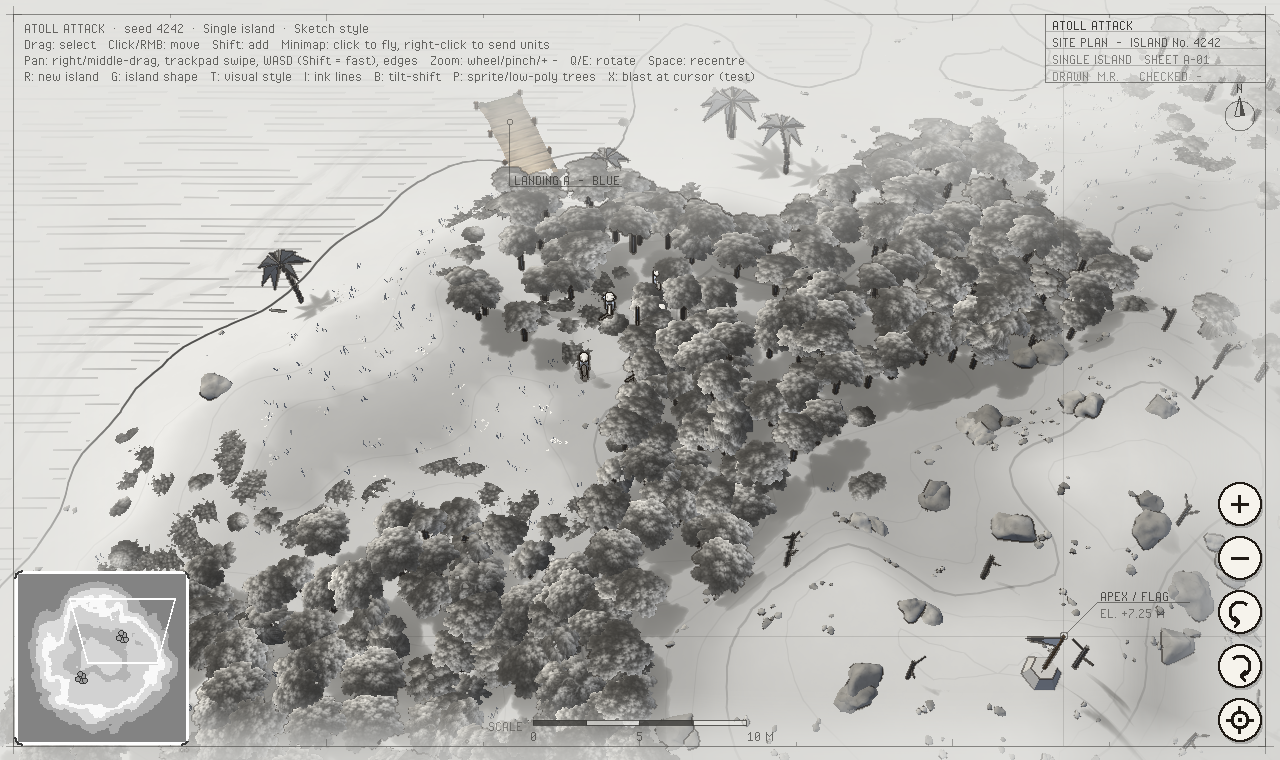
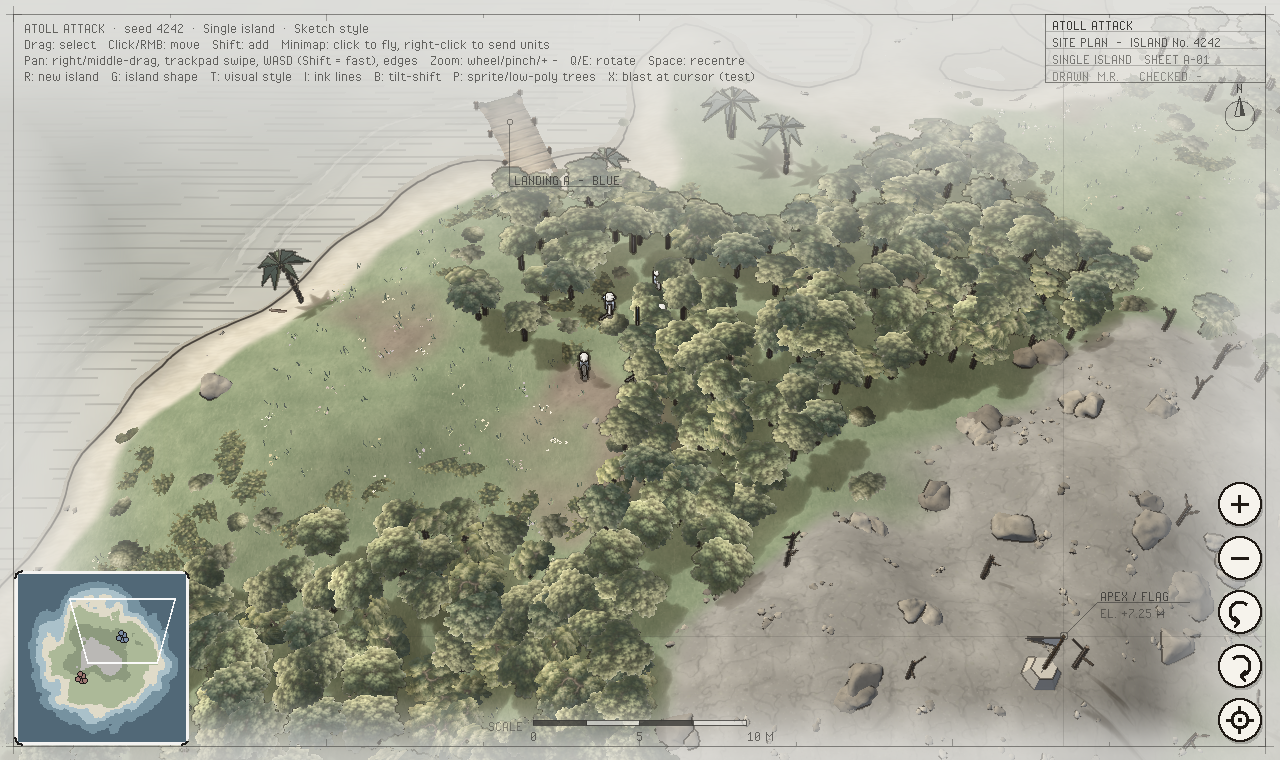
Sketch style: earth tones and sun shading instead of contour lines
The owner asked to drop the topographic lines that imply altitude and use
real shading and lighting instead, with muted earth-tone colour rather than
bright greens and blues.

- Contours and slope hatching are off in Sketch. Only a thin coastline
  remains.
- TerrainStyle.light switches the terrain from the soft classic form light
  to a real hillshade (slopes facing away from the sun go properly dark).
- Sketch now uses the painted ground textures for detail.
- SketchTone keeps a share of each material's hue (chroma), biased warm by
  SKETCH_EARTH. Greens become sage and olive, rock warm stone, and water
  slate. Shadows are a warm grey, and the minimap is muted, not greyscale.
- Timber still keeps full colour, so it stays the richest thing on screen.

Claude-Session: https://claude.ai/code/session_01Svr5p8hEFi3Q2Hxumcf7mR

diff --git a/README.md b/README.md
@@ -19,7 +19,7 @@ The goal of this spike is to answer one question: does Heaps give the Northgard-
   - *Classic* carries over the Flutter look, with hard posterised bands (sand, lowland, upland, peak), the stepped three-tone water and the crinkly relief highlight (baked to a texture per island so it's cheap on phones).
   - *Painted* blends painted grass, dirt, rock and sand textures (generated in code, no assets), with wandering patch edges, wet sand at the waterline, soft turquoise water, and a tilt-shift blur for a miniature-diorama feel.
   - *Ink map* adds soft colours, contours, hatching and ink outlines.
-  - *Sketch* is an architectural presentation drawing. Everything is graphite on paper except timber (docks, the flag pole), which keeps its warm colour. Water is drawn as ruled pen strokes along the shore, the frame dissolves into the page at the top and margins, and a drafting layer adds a title block, scale bar, north arrow, a datum through the apex, landing labels, and move orders drawn as dimension lines in metres.
+  - *Sketch* is an architectural presentation drawing. Nature is in muted earth tones (sage, olive, warm stone, slate water) on paper, with real sun shading on the terrain instead of contour lines. Timber (docks, the flag pole) keeps its full colour. Water has ruled pen strokes along the shore, the frame dissolves into the page at the top and margins, and a drafting layer adds a title block, scale bar, north arrow, a datum through the apex, landing labels, and move orders drawn as dimension lines in metres.
 - **Procedural atoll**: a seeded, deterministic heightfield (Int32 hashing, so every platform generates the same island) with a wobbly reef ring broken into islets, a shallow lagoon, and a raised apex where the flag stands.
 - **Units**: Captain, Swordsmen, and Archers for blue and red, built from low-poly primitives.
 - **RTS controls**: box select, click or right-click to move with formation spreading, shift to add to the selection, slope-aware movement, and units that stop at the shoreline.

diff --git a/CLAUDE.md b/CLAUDE.md
@@ -67,9 +67,13 @@ URL params on the web build make runs reproducible:
   - **Ink map** uses soft colours, topo contours, coastline, slope hatching,
     and a screen-space ink pass.
   - **Sketch** comes from architectural presentation drawings the owner
-    shared (graphite on paper, one warm timber material, drafting lines).
-    `SketchTone` greys every island material (a light curve for ground and
-    water, a darker one for props). Anything added *after* it's applied in
+    shared (paper, one warm timber material, drafting lines). The owner then
+    asked for **no topographic lines** (no contours or slope hatching).
+    Relief comes from real sun shading (`TerrainStyle.light`), and colour is
+    **muted earth tones, not bright green/blue**. `SketchTone` remaps each
+    island material's brightness and keeps a fraction of its hue (`chroma`),
+    biased warm (`Palette.SKETCH_EARTH`). Ground and water get a lighter curve,
+    props a darker one. The ground uses the painted textures for detail. Anything added *after* it's applied in
     `IslandView`'s constructor (docks, the flag pole) keeps its colour. That
     warm timber is the point of the style, so new built things (ships,
     forts) should be timber and stay un-toned. `ui/DraftingOverlay` is the
